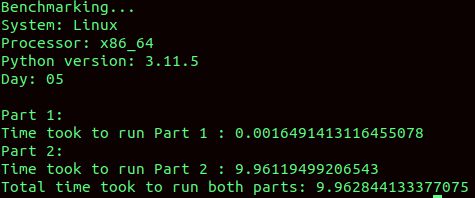
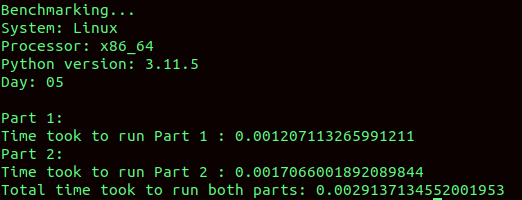
[day 05] opti for part2 and new benchmark

Changed region(s): [[0.0, 0.5455, 1.0, 1.0], [0.0, 0.0, 0.4421, 0.4545]]

diff --git a/day05/Part2/part2.py b/day05/Part2/part2.py
@@ -2,53 +2,80 @@
 import re
 def part2(lines: list[str]) -> int:
     """Returns the lowest location"""
-    input = "".join(lines)
-    par = input.split("\n\n")
 
-    initial_seeds = [int(x) for x in re.findall(r'\d+', par[0])]
+    initial_seeds = [int(x) for x in re.findall(r'\d+', lines[0])]
     seeds = []
     for i in range(0, len(initial_seeds), 2):
         seeds.append([initial_seeds[i], initial_seeds[i] + initial_seeds[i+1] - 1])
 
-    conv_parts = []
-    for part in par[1:]:
-        conv_dict = {}
-        for line in part.split("\n"):
-            if len(re.findall(r':', line)) != 0:
+    tmp_seeds = []
+    for _, line in enumerate(lines[3:]):
+        numbers = [int(x) for x in re.findall(r'\d+', line)]
+
+        if len(numbers) == 0 and re.findall(r':', line) == []:
+            seeds.extend(tmp_seeds)
+            tmp_seeds = []
+            continue
+        if len(numbers) == 0:
+            continue
+
+        maps = [numbers[0], numbers[1], numbers[1] + numbers[2] - 1]
+    
+        counter = 0
+        while (counter < len(seeds)):
+            seed = seeds[counter]
+            if seed[0] > maps[2] or seed[1] < maps[1]:
+                counter += 1
                 continue
-            numbers = [int(x) for x in re.findall(r'\d+', line)]
+            elif maps[1] <= seed[0] and seed[1] <= maps[2]:
+                tmp_interval = [seed[0], seed[1]]
+                dec = maps[0] - maps[1]
+                interval = [x + dec for x in tmp_interval]
+                tmp_seeds.append(interval)
+                seeds.pop(counter)
+            elif seed[0] <= maps[1] and maps[2] <= seed[1]:
+                if seed[0] == maps[1]:
+                    tmp_interval_mdl = [maps[1], maps[2]]
+                    interval_aft = [maps[2] + 1, seed[1]]
+                    dec = maps[0] - maps[1]
+                    interval_mdl = [x + dec for x in tmp_interval_mdl]
+                    seeds.append(interval_aft)
+                    tmp_seeds.append(interval_mdl)
+                    seeds.pop(counter)
+                elif seed[1] == maps[2]:
+                    tmp_interval_mdl = [maps[1], maps[2]]
+                    interval_pre = [seed[0], maps[1] - 1]
+                    dec = maps[0] - maps[1]
+                    interval_mdl = [x + dec for x in tmp_interval_mdl]
+                    seeds.append(interval_pre)
+                    tmp_seeds.append(interval_mdl)
+                    seeds.pop(counter)
+                else:
+                    tmp_interval_mdl = [maps[1], maps[2]]
+                    interval_pre = [seed[0], maps[1] - 1]
+                    interval_aft = [maps[2] + 1, seed[1]]
+                    dec = maps[0] - maps[1]
+                    interval_mdl = [x + dec for x in tmp_interval_mdl]
+                    seeds.append(interval_pre)
+                    seeds.append(interval_aft)
+                    tmp_seeds.append(interval_mdl)
+                    seeds.pop(counter)
+            elif seed[0] <= maps[1] <= seed[1] <= maps[2]:
+                tmp_interval = [maps[1], seed[1]]
+                interval_pre = [seed[0], maps[1] - 1]
+                dec = maps[0] - maps[1]
+                interval = [x + dec for x in tmp_interval]
+                seeds.append(interval_pre)
+                tmp_seeds.append(interval)
+                seeds.pop(counter)
+            elif maps[1] <= seed[0] <= maps[2] <= seed[1]:
+                tmp_interval = [seed[0], maps[2]]
+                interval_aft = [maps[2] + 1, seed[1]]
+                dec = maps[0] - maps[1]
+                interval = [x + dec for x in tmp_interval]
+                seeds.append(interval_aft)
+                tmp_seeds.append(interval)
+                seeds.pop(counter)
 
-            conv_dict[numbers[1], numbers[1] + numbers[2] - 1] = numbers[0]
-        conv_parts.append(conv_dict)
-
-    for i in range(len(conv_parts)):
-        conv_dict = conv_parts[i]
-        tmp_seeds = []
-        still = seeds
-        while still:
-            seed_start, seed_end = still.pop()
-            added = False
-            for map_start, map_end in conv_dict:
-                dec = conv_dict[(map_start, map_end)]
-                if map_start <= seed_start <= map_end and map_start <= seed_end <= map_end:
-                    tmp_seeds.append((dec + seed_start - map_start, dec + seed_end - map_start))
-                    added = True
-                elif map_start <= seed_end <= map_end:
-                    tmp_seeds.append((dec, dec + seed_end - map_start))
-                    still.append((seed_start, map_start - 1))
-                    added = True
-                elif map_start <= seed_start <= map_end:
-                    tmp_seeds.append((dec + seed_start - map_start, dec + map_end - map_start))
-                    still.append((map_end + 1, seed_end))
-                    added = True
-                elif seed_start < map_start and seed_end > map_end:
-                    tmp_seeds.append((dec, dec + map_end - map_start))
-                    still.append((seed_start, map_start - 1))
-                    still.append((map_end + 1, seed_end))
-                    added = True
-            if not added:
-                tmp_seeds.append((seed_start, seed_end))
-
-        seeds = tmp_seeds
-
+    seeds.extend(tmp_seeds)
     return min(seeds)[0]
